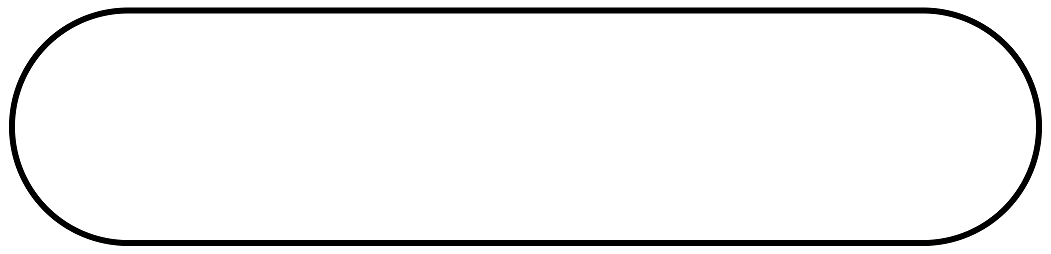
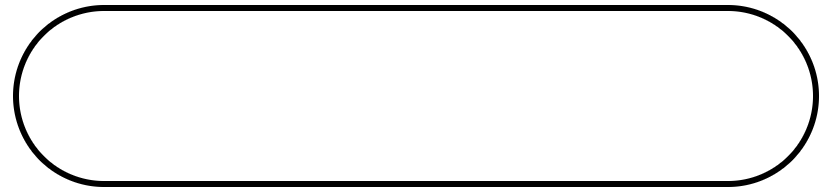
back button functionality added

Changed region(s): [[0.0, 0.0, 0.994, 0.9846]]

diff --git a/style.css b/style.css
@@ -10,41 +10,41 @@
 .assetContainer{
     margin: 0.01cm auto;
     border: red solid 1px;
-    width: calc(20cm*2);
-    height: calc(4cm*2);
+    width: calc(20cm);
+    height: calc(4cm);
 }
 
 .assest{
-    border-radius: calc(4cm*2);
-    border: black 8px solid;
+    border-radius: calc(4cm);
+    border: black 4px solid;
     margin: auto;
 }
 
 .fat{
-    height: calc(5.5cm*2);
+    height: calc(5.5cm);
 }
 
 #normalLong{
-    width: calc(18cm*2);
-    height: calc(2.5cm*2);
+    width: calc(14cm);
+    height: calc(1.7cm);
 }
 
 #normalShort{
-    width: calc(9cm*2);
-    height: calc(2.5cm*2);
+    width: calc(7cm*0.84);
+    height: calc(1.7cm*0.84);
 }
 
 #fatShort{
-    width: calc(9cm*2);
-    height: calc(4cm*2);
+    width: calc(7cm);
+    height: calc(3cm);
 }
 
 #skinnyLong{
-    width: calc(18cm*2);
-    height: calc(2cm*2);
+    width: calc(14cm);
+    height: calc(1.2cm);
 }
 
 #fatLong{
-    width: calc(18cm*2);
-    height: calc(4cm*2);
+    width: calc(14cm);
+    height: calc(3cm);
 }

diff --git a/main.py b/main.py
@@ -24,9 +24,8 @@ def initialise():
         if fileCreation() == 'Correct Files Created':
             convertAssetColor(primary,secondry)
             ## This allows me to access specific pages without having to go via the terms and conditions -> login -> menu etc
-            createAccountPage()
-            ##
-            # displayTCs()
+            #createAccountPage()  
+            displayTCs()
 
 #setting up key bindings for quickly exciting the program (mainly useful for developing)
 def escapeProgram(event):
@@ -46,7 +45,7 @@ def invalidOSRunning():
  
 #defining certain default variables
 def definingDefaultVariables():
-    global primary, secondry, tertiary, bannedColours, font, listOfIdealTables, databaseName, listOfIdealAssests, listOfIdealAssestsMutable ,connectionError
+    global primary, secondry, tertiary, bannedColours, font, listOfIdealTables, databaseName, listOfIdealAssests, listOfIdealAssestsMutable ,connectionError, previousPage
     primary = '#373f51'
     secondry = '#ffffff'
     tertiary = '#a9a9a9'
@@ -57,6 +56,7 @@ def definingDefaultVariables():
     listOfIdealAssests = ['Long-Fat.PNG','Long-Normal.PNG','Long-Skinny.PNG','Short-Fat.PNG','Short-Normal.PNG','House.ico']
     connectionError = Tk()
     connectionError.destroy()
+    previousPage = None
 
 #intialising page
 def initialiseWindow():
@@ -69,7 +69,7 @@ def initialiseWindow():
     root.resizable(width=False, height=False) #Makes the window not be reziable becuase that mucks up the asthetics
     chdir(f'.{path_seperator}Assests')
     root.iconbitmap("House.ico")
-    root.bind("`", escapeProgram)
+    root.bind("=", escapeProgram)
 
 #Finding out what OS the device runs on and setting the path seperator approrialtly
 def findOS():
@@ -337,6 +337,8 @@ def restartFromConnectionError():
 
 def displayTCs():
     initialiseWindow()
+    global previousPage
+    previousPage = 'Terms and Conditions'
     root.title('Property managment system - Terms and Condtions')
     tCsTitle = Label(root, font=(font,'25'), text='TERMS & CONDITIONS', justify='center', width='71', bg=primary,fg=secondry).place(relx=0.5, rely=0.1, anchor=CENTER)
     tCsSubTitle = Label(root,font=(font,'15'), text='By accepting the terms and condtions you agree to the following', justify='center', width='71', bg=primary,fg=secondry).place(relx=0.5, rely=0.15, anchor=CENTER)
@@ -370,18 +372,21 @@ def closeMainPage():
 
 def loginPage():
     initialiseWindow()
+    displayBackButton()
+    global previousPage
+    previousPage = 'Login'
     root.title ('Property managment system - Login')
     headerL = Label(root,text='Login',font=((font,'40')),fg=secondry,bg=primary).place(relx=0.5,rely=0.1, anchor=CENTER)
     #username input
     usernameHeaderL = Label(root,text='Username',font=((font,'15')),fg=secondry,bg=primary).place(relx=0.5,rely=0.28, anchor=CENTER)
     longNormal = PhotoImage(file = "Long-Normal.PNG")
-    longNormalLabelU = Label(image = longNormal, border = 0).place(relx=0.5,rely=0.39,anchor=CENTER)
-    usernameEntry = Entry(root, bg=primary, fg=secondry, width=48, font=(font,24),justify='center',relief='flat').place(relx=0.5,rely=0.39,anchor=CENTER)
+    longNormalLabelU = Label(image = longNormal, border = 0).place(relx=0.5,rely=0.37,anchor=CENTER)
+    usernameEntry = Entry(root, bg=primary, fg=secondry, width=42, font=(font,24),justify='center',relief='flat').place(relx=0.5,rely=0.37,anchor=CENTER)
     #password input
     passwordHeaderL = Label(root,text='Password',font=((font,'15')),fg=secondry,bg=primary).place(relx=0.5,rely=0.55, anchor=CENTER)
-    longNormalLabelP = Label(image = longNormal, border = 0).place(relx=0.5,rely=0.66,anchor=CENTER)
-    passwordEntry = Entry(root, bg=primary,fg=secondry, width=48, font=(font,24),justify='center',relief='flat').place(relx=0.5,rely=0.66,anchor=CENTER)
-    hidePasswordLoginPageB = Button(root, text='Hide', font=(font,'15','underline'),fg=secondry,bg=primary,activeforeground=bannedColours['activeTextColor'],activebackground=primary,border=0,command=hidePasswordLoginPage).place(relx=0.05, rely=0.66, anchor=CENTER)
+    longNormalLabelP = Label(image = longNormal, border = 0).place(relx=0.5,rely=0.64,anchor=CENTER)
+    passwordEntry = Entry(root, bg=primary,fg=secondry, width=42, font=(font,24),justify='center',relief='flat').place(relx=0.5,rely=0.64,anchor=CENTER)
+    hidePasswordLoginPageB = Button(root, text='Hide', font=(font,'15','underline'),fg=secondry,bg=primary,activeforeground=bannedColours['activeTextColor'],activebackground=primary,border=0,command=hidePasswordLoginPage).place(relx=0.15, rely=0.64, anchor=CENTER)
     createAccountPageB = Button(root, text='Create Account', font=(font,'15','underline'),fg=secondry,bg=primary,activeforeground=bannedColours['activeTextColor'],activebackground=primary,border=0,command=createAccountPage).place(relx=0.2, rely=0.9, anchor=CENTER)
     ForgottenPageB = Button(root, text='Forgotten Password?', font=(font,'15','underline'),fg=secondry,bg=primary,activeforeground=bannedColours['activeTextColor'],activebackground=primary,border=0,command=forgottenPasswordPageOne).place(relx=0.8, rely=0.9, anchor=CENTER)
     submitLoginDetailsB = Button(root, text='L O G I N', font=(font,'20','underline','bold'),fg=secondry,bg=primary,activeforeground=bannedColours['activeTextColor'],activebackground=primary,border=0,command=login).place(relx=0.5, rely=0.9, anchor=CENTER)
@@ -447,19 +452,22 @@ def declineTCs():
 
 def createAccountPage():
     initialiseWindow()
+    displayBackButton()
+    global previousPage
+    previousPage = 'Create Account'
     root.title('Property managment system - Create Account')
     headerL = Label(root,text='Create Account',font=((font,'40')),fg=secondry,bg=primary).place(relx=0.5,rely=0.1, anchor=CENTER)
     shortNormal = PhotoImage(file = "Short-Normal.PNG")
-    emailEntryBoxbackground = Label(image = shortNormal, border = 0).place(relx=0.25,rely=0.3,anchor=CENTER)
-    emailEntryBox = Entry(root, bg=primary,fg=secondry, width=27, font=(font,24),justify='center',relief='flat').place(relx=0.25,rely=0.3,anchor=CENTER)
-    firstNameEntryBoxbackground = Label(image = shortNormal, border = 0).place(relx=0.25,rely=0.5,anchor=CENTER)
-    operationTypeEntryBoxbackground = Label(image = shortNormal, border = 0).place(relx=0.25,rely=0.7,anchor=CENTER)
-    otherIncomeEstimateEntryBoxbackground = Label(image = shortNormal, border = 0).place(relx=0.25,rely=0.9,anchor=CENTER)
-    passwordEntryBoxbackground = Label(image = shortNormal, border = 0).place(relx=0.75,rely=0.3,anchor=CENTER)
-    surnameEntryBoxbackground = Label(image = shortNormal, border = 0).place(relx=0.75,rely=0.5,anchor=CENTER)
-    titleEntryBoxbackground = Label(image = shortNormal, border = 0).place(relx=0.75,rely=0.7,anchor=CENTER)
-    nationalInsuranceEntryBoxbackground = Label(image = shortNormal, border = 0).place(relx=0.75,rely=0.9,anchor=CENTER)
-    #TODO: Next section to do
+    emailEntryBoxbackground = Label(image = shortNormal, border = 0).place(relx=0.25,rely=0.25,anchor=CENTER)
+    emailEntryBox = Entry(root, bg=primary,fg=secondry, width=23, font=(font,18),justify='center',relief='flat').place(relx=0.25,rely=0.25,anchor=CENTER)
+    firstNameEntryBoxbackground = Label(image = shortNormal, border = 0).place(relx=0.25,rely=0.42,anchor=CENTER)
+    operationTypeEntryBoxbackground = Label(image = shortNormal, border = 0).place(relx=0.25,rely=0.59,anchor=CENTER)
+    otherIncomeEstimateEntryBoxbackground = Label(image = shortNormal, border = 0).place(relx=0.25,rely=0.76,anchor=CENTER)
+    passwordEntryBoxbackground = Label(image = shortNormal, border = 0).place(relx=0.75,rely=0.25,anchor=CENTER)
+    surnameEntryBoxbackground = Label(image = shortNormal, border = 0).place(relx=0.75,rely=0.42,anchor=CENTER)
+    titleEntryBoxbackground = Label(image = shortNormal, border = 0).place(relx=0.75,rely=0.59,anchor=CENTER)
+    nationalInsuranceEntryBoxbackground = Label(image = shortNormal, border = 0).place(relx=0.76,rely=0.76,anchor=CENTER)
+    submitLoginDetailsB = Button(root, text='C R E A T E   A C C O U N T ', font=(font,'20','underline','bold'),fg=secondry,bg=primary,activeforeground=bannedColours['activeTextColor'],activebackground=primary,border=0,command=createAccount).place(relx=0.5, rely=0.9, anchor=CENTER)
     root.mainloop()
 
 def forgottenPasswordPageOne():
@@ -476,6 +484,22 @@ def hidePasswordLoginPage():
     #TODO: hide the password 
     #TODO: replace the hide button with a show button and then code show button
     pass
+
+def createAccount():
+    print('attempt create account')
+    pass
+
+def displayBackButton():
+    print('Func called')
+    print(previousPage)
+    if previousPage == None:
+        pass
+    elif previousPage == 'Login':
+        backButton = Button(root, text='BACK', font=(font,'15','underline','bold'),fg=tertiary,bg=primary,activeforeground=bannedColours['activeTextColor'],activebackground=primary,border=0,command=loginPage).place(relx=0.05, rely=0.05, anchor=CENTER)
+    elif previousPage == 'Create Account':
+        backButton = Button(root, text='BACK', font=(font,'15','underline','bold'),fg=tertiary,bg=primary,activeforeground=bannedColours['activeTextColor'],activebackground=primary,border=0,command=createAccountPage).place(relx=0.05, rely=0.05, anchor=CENTER)
+    elif previousPage == 'Terms and Conditions':
+        backButton = Button(root, text='BACK', font=(font,'15','underline','bold'),fg=tertiary,bg=primary,activeforeground=bannedColours['activeTextColor'],activebackground=primary,border=0,command=displayTCs).place(relx=0.05, rely=0.05, anchor=CENTER)
 
 
 
